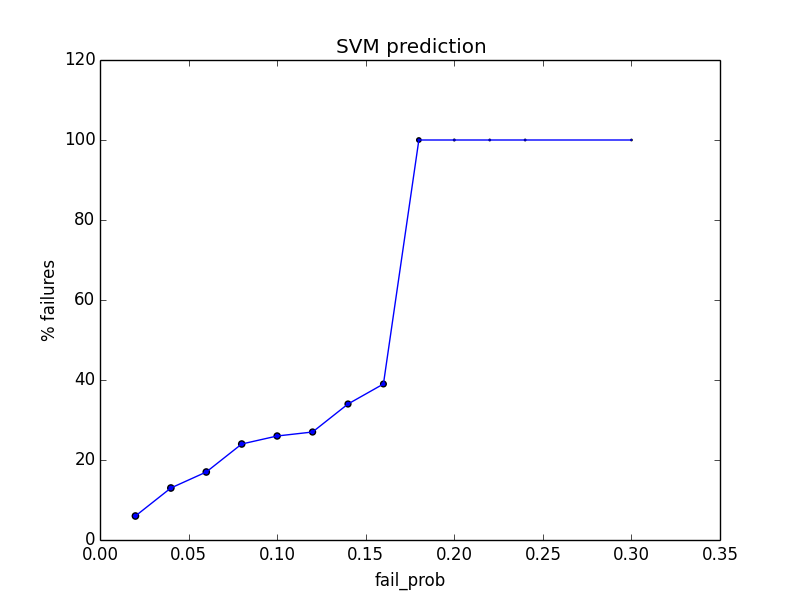
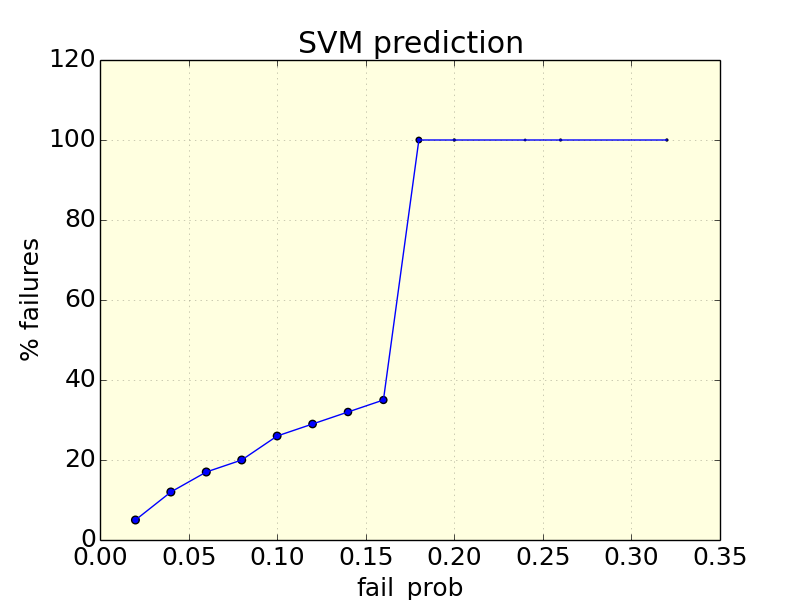
version 1 done

diff --git a/source/smart_maint.py b/source/smart_maint.py
@@ -19,7 +19,7 @@ maint_duration = 2
 percent_failed_threshold = 22
 repair_duration = 3
 N_motors = 100
-run_interval = 100
+run_interval = 150#100
 ran_num_seed = 13
 
 #set random number seed
@@ -78,23 +78,54 @@ file.close()
 events_df = get_events(motors)
 operating_earnings = 1000.0
 maintenance_cost = 0.25*operating_earnings
-repair_cost = 3.0*operating_earnings
+repair_cost = 3.2*operating_earnings
 events_df['earnings'] = 0.0
 events_df.loc[events_df.state == 'operating', 'earnings'] = operating_earnings
 events_df['expenses'] = 0.0
-events_df.loc[events_df.state == 'maintenance', 'expenses'] = -maintenance_cost
-events_df.loc[events_df.state == 'repair', 'expenses'] = -repair_cost
+events_df.loc[events_df.state == 'maintenance', 'expenses'] = maintenance_cost
+events_df.loc[events_df.state == 'repair', 'expenses'] = repair_cost
 money = events_df.groupby('Time').sum()[['earnings', 'expenses']]
-money['revenue'] = money.earnings + money.expenses
+money['revenue'] = money.earnings - money.expenses
 money['cumulative_earnings'] = money.earnings.cumsum()
 money['cumulative_expenses'] = money.expenses.cumsum()
 money['cumulative_revenue'] = money.revenue.cumsum()
-fig = plt.figure()
-ax = fig.add_subplot(1, 1, 1)
+matplotlib.rcParams.update({'font.size': 16})
+fig = plt.figure(figsize=(16.0, 10.0))
+fig.subplots_adjust(hspace=0.35)
+
+ax = fig.add_subplot(2, 1, 1)
 ax.set_xlabel('Time')
-ax.set_ylabel('$')
-ax.set_title('cumulative revenue')
-ax.plot(money.index, money.cumulative_revenue)
+ax.set_ylabel('Earnings    (M$)')
+ax.set_title('Cumulative Earnings & Expenses')
+ax.plot(money.index, money.cumulative_earnings/1.e6, color='blue', linewidth=4, alpha=0.7)
+ax.plot(money.index, money.cumulative_expenses/1.e6, color='red', linewidth=4, alpha=0.7)
+ax.add_patch(matplotlib.patches.Rectangle(
+    (0,0), run_interval, ax.get_ylim()[1], color='lightsalmon', alpha=0.35))
+ax.annotate('run-to-fail', xy=(12, 38), verticalalignment='top')                
+ax.add_patch(matplotlib.patches.Rectangle(
+    (run_interval, 0), run_interval, ax.get_ylim()[1], color='gold', alpha=0.35))
+ax.annotate('scheduled\nmaintenance', xy=(162, 38), verticalalignment='top')                
+ax.add_patch(matplotlib.patches.Rectangle(
+    (2*run_interval, 0), 2*run_interval, ax.get_ylim()[1], color='darkseagreen', alpha=0.35))
+ax.annotate('predictive\nmaintenance', xy=(312, 38), verticalalignment='top')                
+ax.grid(True, linestyle=':', alpha=0.3)
+
+ax = fig.add_subplot(2, 1, 2)
+ax.set_xlabel('Time')
+ax.set_ylabel('Revenue    (M$)')
+ax.set_title('Cumulative Revenue')
+ax.plot(money.index, money.cumulative_revenue/1.e6, color='green', linewidth=4)
+ax.add_patch(matplotlib.patches.Rectangle(
+    (0,ax.get_ylim()[0]), run_interval, ax.get_ylim()[1]- ax.get_ylim()[0], 
+    color='lightsalmon', alpha=0.35))
+ax.add_patch(matplotlib.patches.Rectangle(
+    (run_interval, ax.get_ylim()[0]), run_interval, ax.get_ylim()[1] - ax.get_ylim()[0], 
+    color='gold', alpha=0.35))
+ax.add_patch(matplotlib.patches.Rectangle(
+    (2*run_interval, ax.get_ylim()[0]), 2*run_interval, ax.get_ylim()[1] - ax.get_ylim()[0], 
+    color='darkseagreen', alpha=0.35))
+ax.grid(True, linestyle=':', alpha=0.3)
+
 plotfile = '../data/revenue.png'
 fig.savefig(plotfile)
 plt.close(fig) 

diff --git a/source/motor.py b/source/motor.py
@@ -42,7 +42,7 @@ def train_svm(motors, svm_plot):
 
     #plot trained/predicted %failed versus fail_prob
     if (svm_plot == True):
-        fig = plt.figure()
+        fig = plt.figure(figsize=(8.0, 6.0))
         ax = fig.add_subplot(1, 1, 1)
         ax.set_xlabel('fail_prob')
         ax.set_ylabel('% failures')
@@ -50,6 +50,8 @@ def train_svm(motors, svm_plot):
         ax.scatter(x_train, y_train, s=weight)
         y_train_predicted = clf.predict(x_train_norm)
         ax.plot(x_train, y_train_predicted)
+        ax.patch.set_facecolor('lightyellow')
+        ax.grid(True, linestyle=':', alpha=0.3)
         plotfile = '../data/percent_fail.png'
         fig.savefig(plotfile)
         plt.close(fig) 
